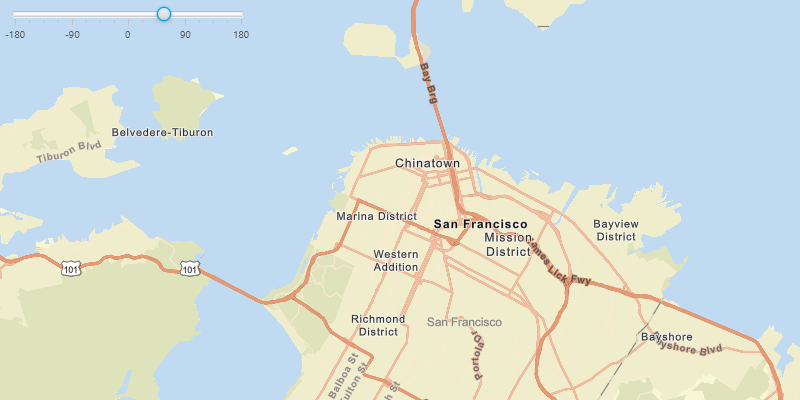
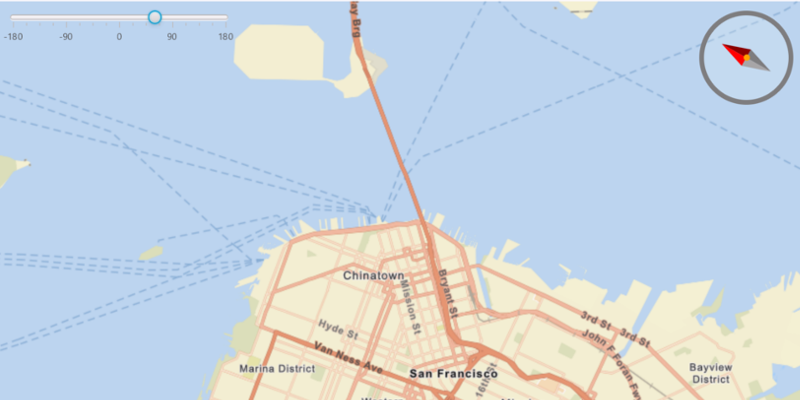
add compass to map rotation sample

diff --git a/src/main/java/com/esri/samples/mapview/map_rotation/MapRotationSample.java b/src/main/java/com/esri/samples/mapview/map_rotation/MapRotationSample.java
@@ -1,5 +1,5 @@
 /*
- * Copyright 2017 Esri.
+ * Copyright 2018 Esri.
  *
  * Licensed under the Apache License, Version 2.0 (the "License"); you may not
  * use this file except in compliance with the License. You may obtain a copy of
@@ -34,6 +34,7 @@ import com.esri.arcgisruntime.mapping.ArcGISMap;
 import com.esri.arcgisruntime.mapping.Basemap;
 import com.esri.arcgisruntime.mapping.Viewpoint;
 import com.esri.arcgisruntime.mapping.view.MapView;
+import com.esri.arcgisruntime.toolkit.Compass;
 
 public class MapRotationSample extends Application {
 
@@ -85,6 +86,9 @@ public class MapRotationSample extends Application {
       mapView = new MapView();
       mapView.setMap(map);
 
+      // create a compass to show the current heading when rotated
+      Compass compass = new Compass(mapView);
+
       // create a starting viewpoint for the map view
       SpatialReference spatialReference = SpatialReferences.getWebMercator();
       Point pointBottomLeft = new Point(-13639984.0, 4537387.0, spatialReference);
@@ -95,10 +99,12 @@ public class MapRotationSample extends Application {
       // set viewpoint to the map view
       mapView.setViewpointAsync(viewpoint);
 
-      // add map view and control panel to stack pane
-      stackPane.getChildren().addAll(mapView, slider);
+      // add the map view, slider, and compass to the stack pane
+      stackPane.getChildren().addAll(mapView, slider, compass);
       StackPane.setAlignment(slider, Pos.TOP_LEFT);
+      StackPane.setAlignment(compass, Pos.TOP_RIGHT);
       StackPane.setMargin(slider, new Insets(10, 0, 0, 10));
+      StackPane.setMargin(compass, new Insets(10, 10, 0, 0));
     } catch (Exception e) {
       // on any error, display the stack trace
       e.printStackTrace();

diff --git a/src/main/java/com/esri/samples/mapview/map_rotation/README.md b/src/main/java/com/esri/samples/mapview/map_rotation/README.md
@@ -1,20 +1,21 @@
 <h1>Map Rotation</h1>
 
-<p>Demonstrates how to rotate an ArcGISMap.</p>
+<p>Demonstrates how to rotate a map.</p>
 
 <p><img src="MapRotation.png"/></p>
 
 <h2>How to use the sample</h2>
 
-<p>The slider changes the rotation of the ArcGISMap.</p>
+<p>Use the slider to rotate the map. If the map is not pointed north, the compass will display the current heading. 
+Click the compass to set the map's heading to north.</p>
 
 <h2>How it works</h2>
 
-<p>To rotate an <code>ArcGISMap</code>:</p>
+<p>To rotate a map:</p>
 
 <ol>
-    <li>Create an ArcGIS map. </li>
-    <li>Add the map to the <code>MapView</code>, <code>MapView.setMap()</code>. </li>
+    <li>Create an <code>ArcGISMap</code>.</li>
+    <li>Add the map to a <code>MapView</code></code>.</li>
     <li>Use <code>MapView.setViewpointRotationAsync</code> to indicate the rotation angle.</li>
 </ol>
 
@@ -22,6 +23,7 @@
 
 <ul>
     <li>ArcGISMap</li>
+    <li>Compass</li>
     <li>Envelope</li>
     <li>MapView</li>
     <li>Point</li>
